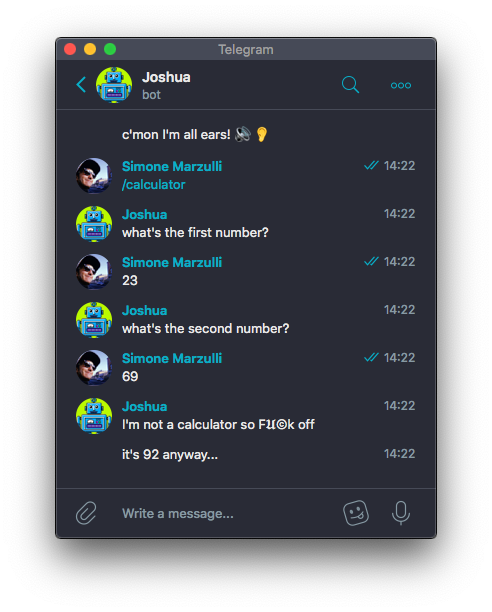
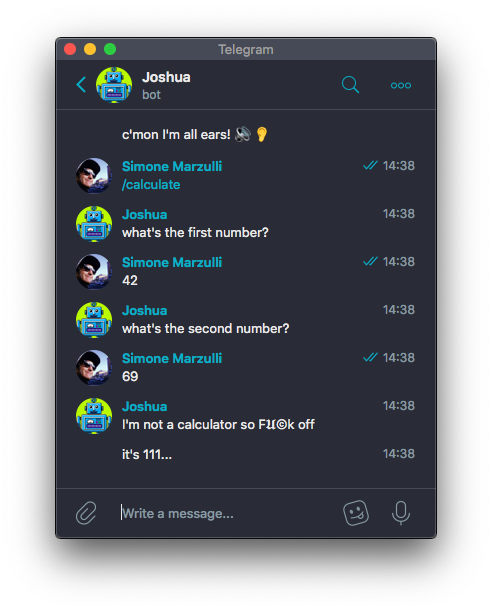
changed documentation example again

diff --git a/README.md b/README.md
@@ -135,7 +135,7 @@ def do_stuff(match_results)
     
   bot.api.send_message(chat_id: message.chat.id, text: "I'm not a calculator so F𝔘Ⓒk off")
   sleep(3)
-  bot.api.send_message(chat_id: message.chat.id, text: "it's #{first_number.to_i + second_number.to_i} anyway...")
+  bot.api.send_message(chat_id: message.chat.id, text: "it's #{first_number.to_i + second_number.to_i}...")
 end
 ```
 
